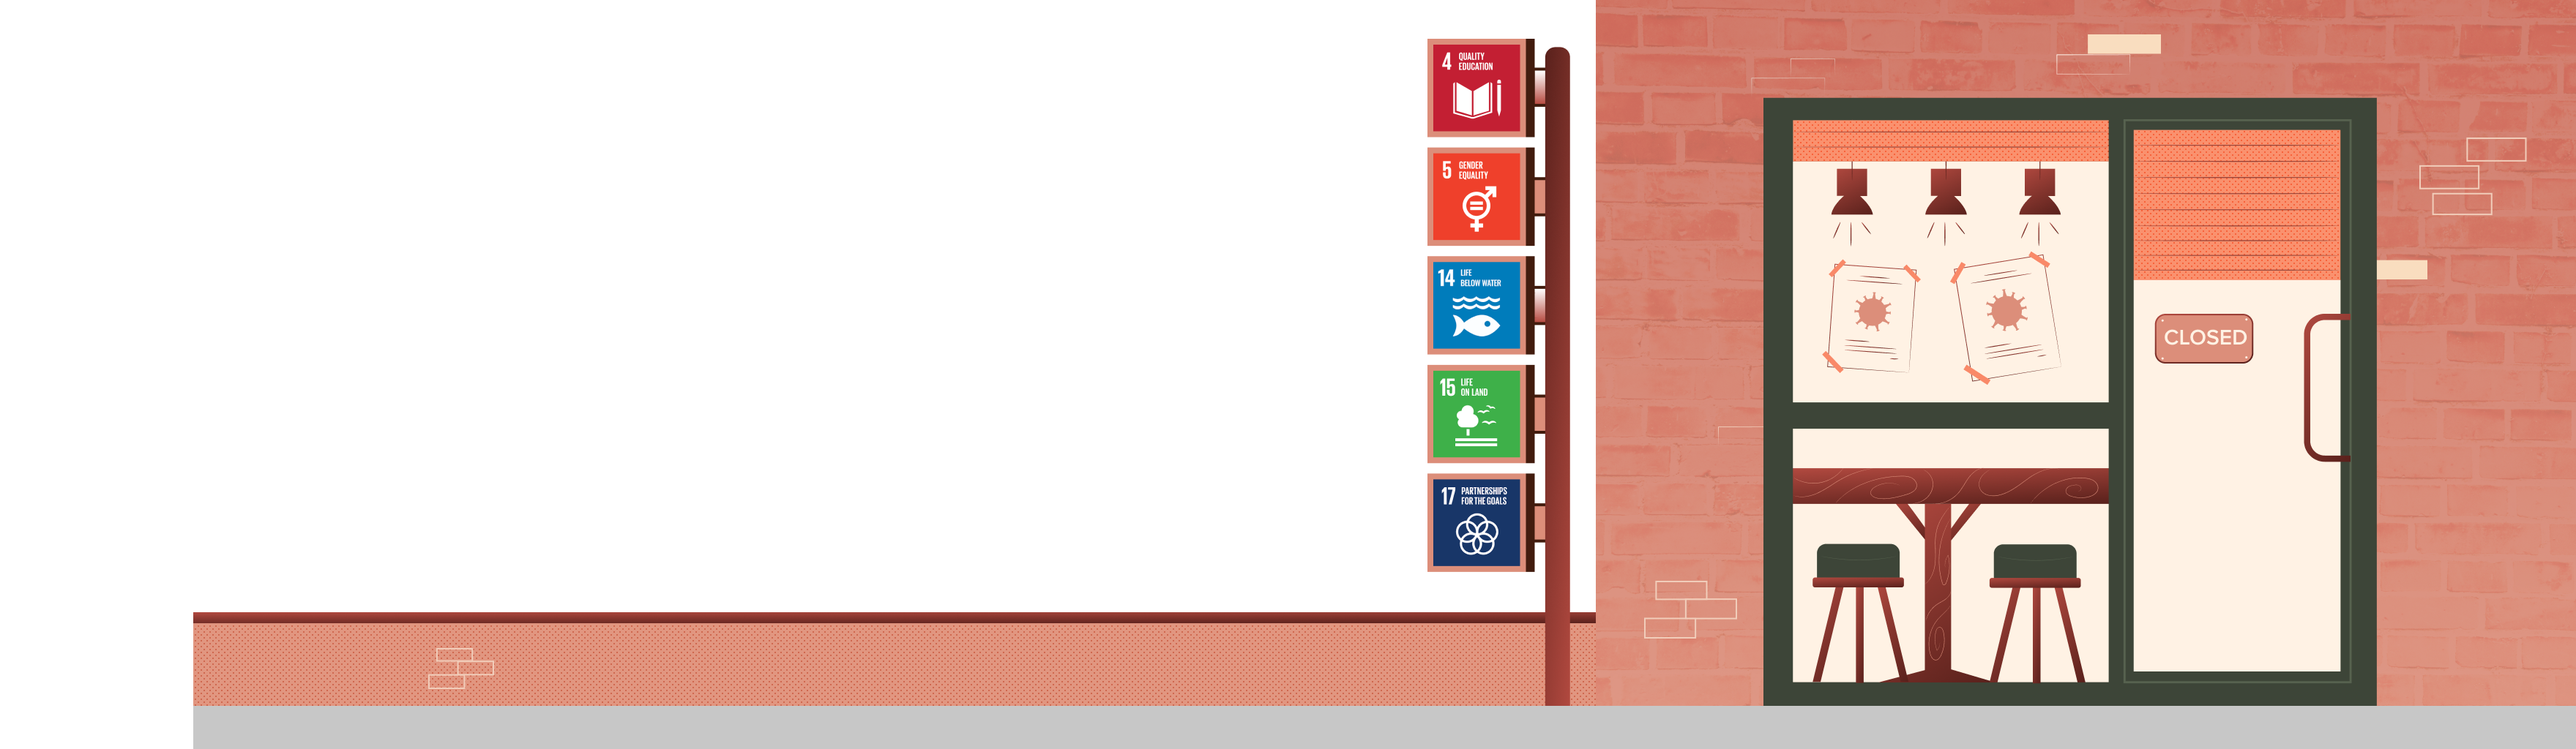
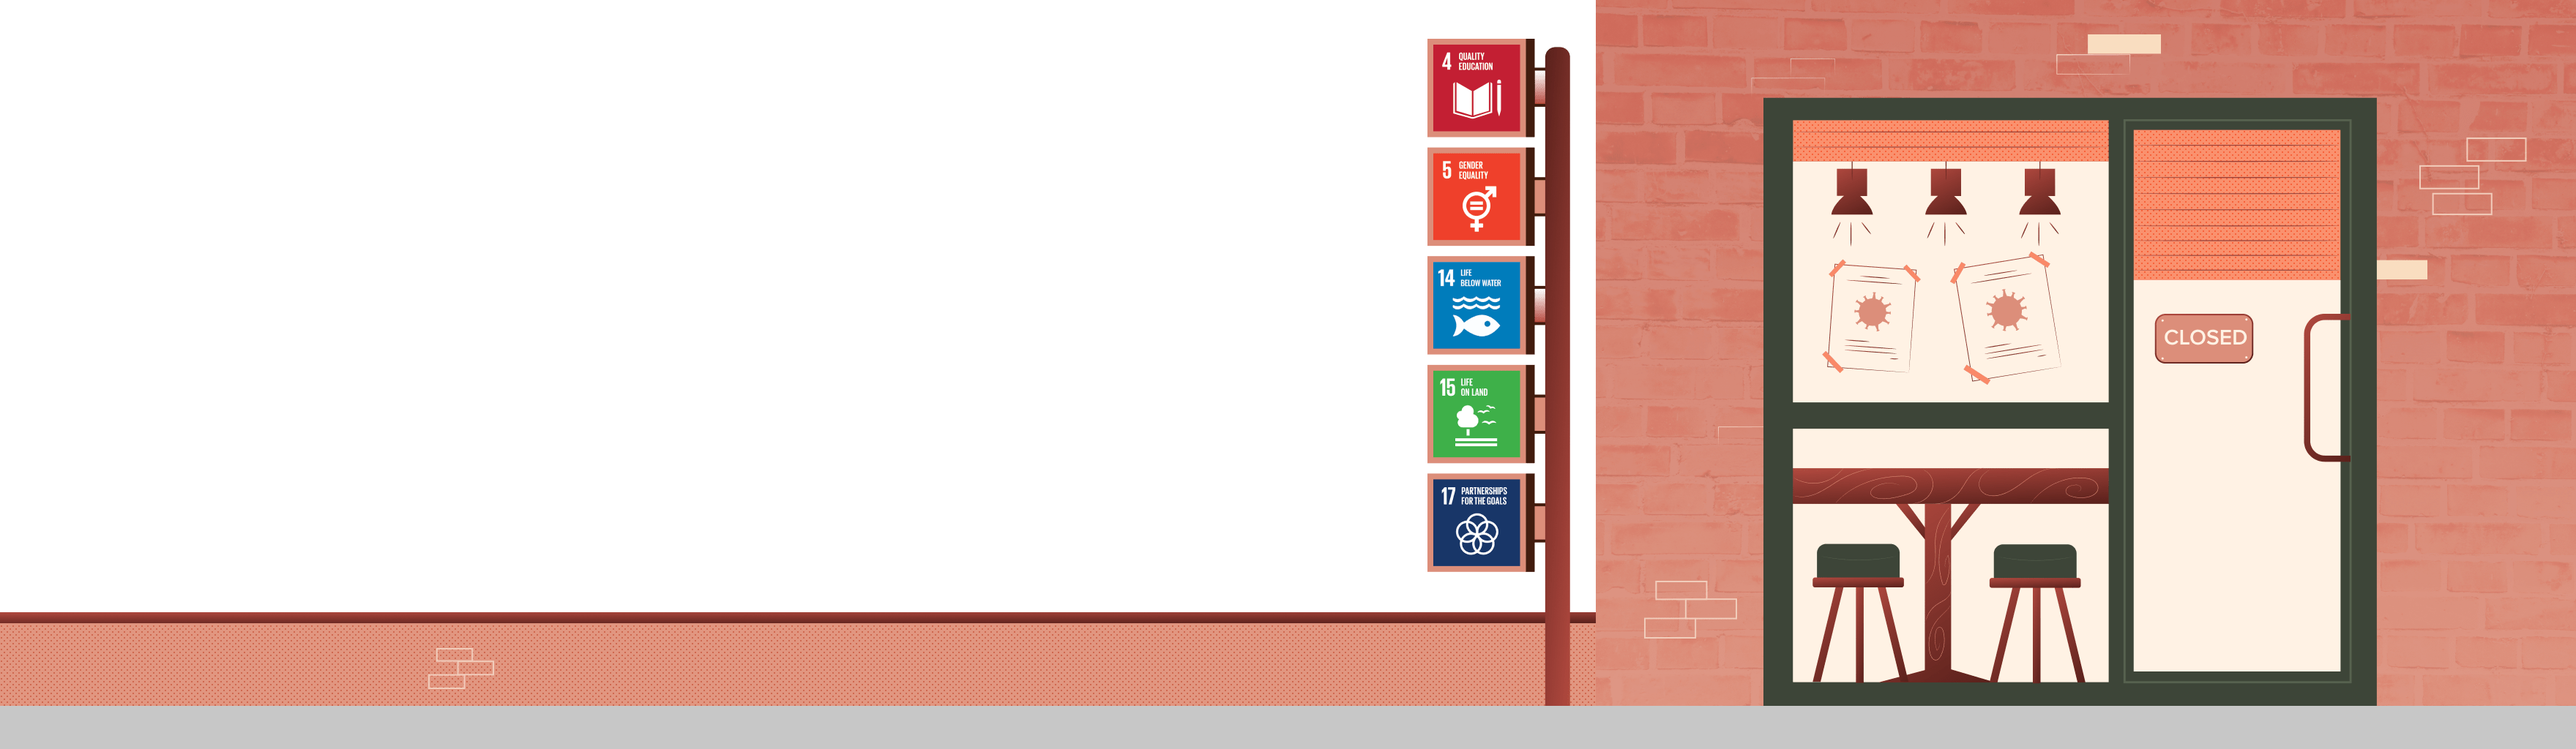
ui update

Changed region(s): [[0.0, 0.8125, 0.6195, 1.0]]

diff --git a/components/Chapter11.vue b/components/Chapter11.vue
@@ -3,7 +3,7 @@
         <div class="b--ss-a"> 
             <div class="b--ss-a__ft-items">
                 <img ref="parallax-ft" 
-                :style="{ left: '66%' }"
+                :style="{ left: '66%', position: 'absolute' }"
                 v-lazy="require(`@/assets/img/chapter-11/front-parallax.png`)" alt="front" />
                 <img
                     class="b--ss-a__ft-items__media"
@@ -17,6 +17,7 @@
                 <div 
                     class="b--chapter11-a__content" 
                     :class="'b--chapter11-a__content--'+`${this.lang}`"
+                    ref="boxContent" :style="{ left: '62%'}"
                 >
                     <v-card-f 
                         :title="chapter.intro_title" 
@@ -25,11 +26,11 @@
                     />
                 </div>
                 <!-- boxes -->
-                <div class="b--chapter11-a__media">
+                <div class="b--chapter11-a__media" :style="{ left: '77%'}" ref="boxes" >
                     <img class="b--media-a" v-lazy="require(`@/assets/img/chapter-11/boxes.svg`)" alt="boxes" />
                 </div>
                 <!-- second position element, info -->
-                <div class="b--chapter11-a__info">
+                <div class="b--chapter11-a__info" ref="infoChapter" :style="{ left: '92%'}">
                     <v-info-chapter :info="chapter"/>
                 </div>
                 <!-- plant animation -->
@@ -43,17 +44,18 @@
                     </div>
                 </div>
                 <!-- blink 2a -->
-                <div class="b--chapter11-a__artwork b--chapter11-a__artwork--second">
+                <div class="b--chapter11-a__artwork b--chapter11-a__artwork--second" :style="{ left: '85%'}" ref="eyes1" >
                     <div class="b--motion-h" v-lazy:background-image="require(`@/assets/img/chapter-11/blink_2a.png`)"></div>
                 </div>
                 <!-- blink 2b -->
-                <div class="b--chapter11-a__artwork b--chapter11-a__artwork--third">
+                <div class="b--chapter11-a__artwork b--chapter11-a__artwork--third" :style="{ left: '108.4%'}" ref="eyes2" >
                     <div class="b--motion-q" v-lazy:background-image="require(`@/assets/img/chapter-11/blink_2b.png`)"></div>
                 </div> 
             </div>
             <div class="b--ss-a__bg-items">
                 <img class="b--ss-a__bg-items__parallax" 
                 ref="parallax-bg" 
+                :style="{ left: '170%' }"
                 v-lazy="require(`@/assets/img/chapter-11/back-parallax.png`)"
                 alt="back parallax"> 
                 <img class="b--ss-a__bg-items__back" 
@@ -95,11 +97,13 @@ export default {
 
         AsambleParallaxObjs() {
             var motion = [
-                // { obj: this.$refs['parallax-bg'], intensity: 4 },
-                // { obj: this.$refs['parallax-ft'], intensity: 3 },
-                // { obj: this.$refs['parallax-ft'], intensity: 21 },
-                // { obj: this.$refs['fisherman'], intensity: 21 },
-                // { obj: this.$refs['boxContent'], intensity: 21 },
+                { obj: this.$refs['parallax-bg'], intensity: 21 },
+                { obj: this.$refs['eyes1'], intensity: 8 },
+                { obj: this.$refs['eyes2'], intensity: 8 },
+                { obj: this.$refs['infoChapter'], intensity: 8 },
+                { obj: this.$refs['parallax-ft'], intensity: 8 },
+                { obj: this.$refs['boxes'], intensity: 8 },
+                { obj: this.$refs['boxContent'], intensity: 8 },
             ]
             motion.forEach((item) => {
                 this.parallaxMove({
